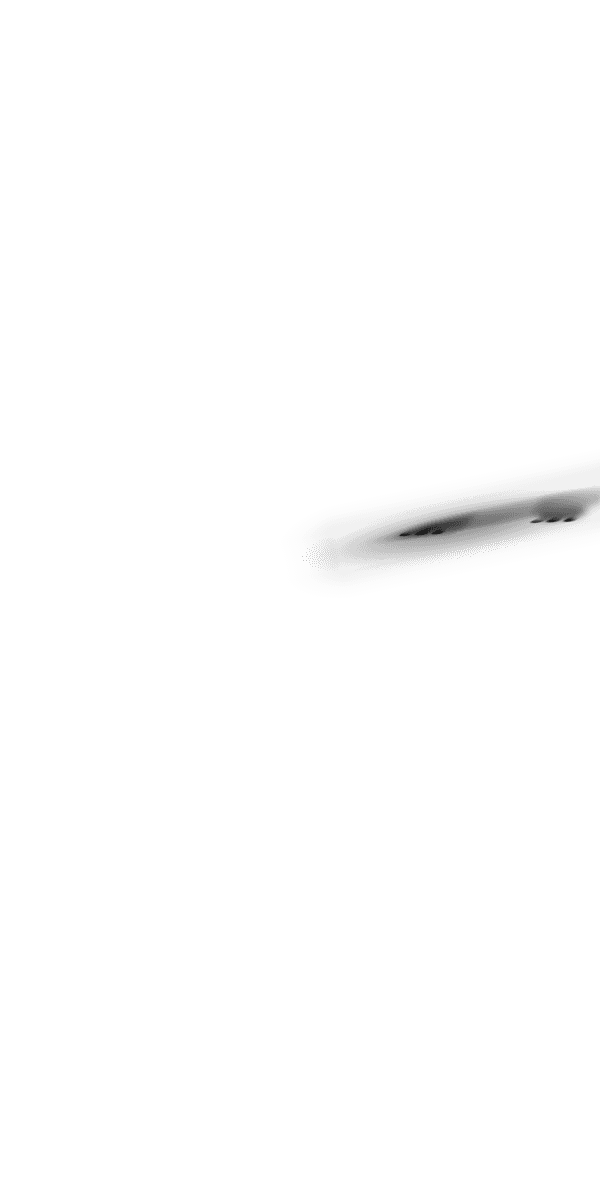
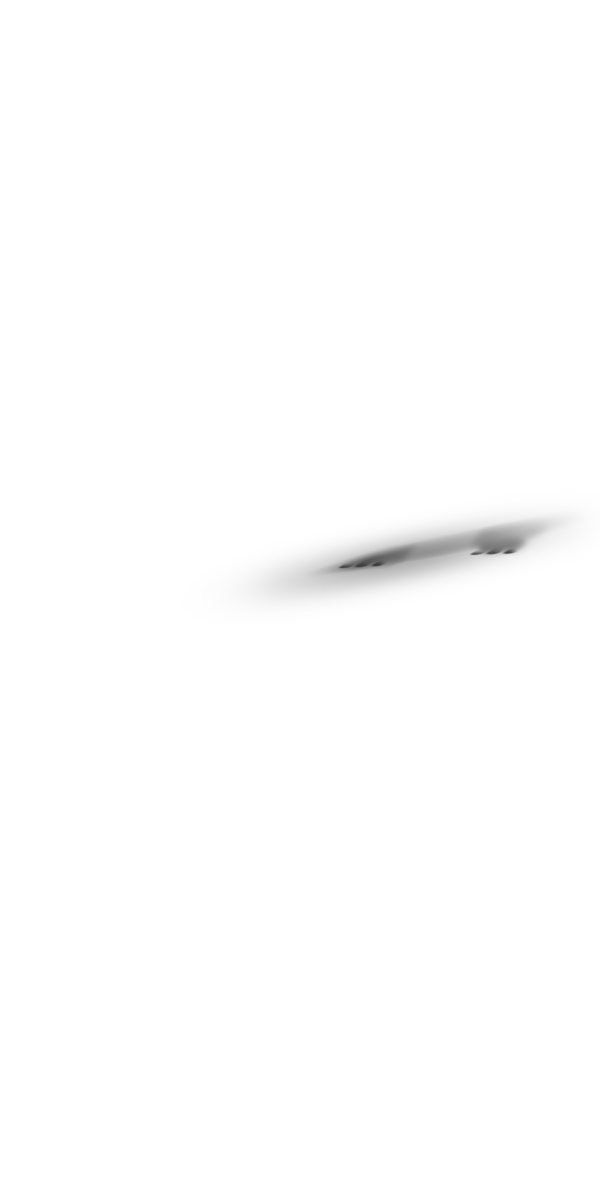
new update on 300x600

Changed region(s): [[0.45, 0.4008, 1.0, 0.4933]]

diff --git a/Speed/10608-01_300x600/index.html b/Speed/10608-01_300x600/index.html
@@ -23,7 +23,7 @@
     <div id="main">
         <div id="background"></div>
 
-        <!-- <img src="images/frame1@2x.jpg" id="ref" style="opacity: .5; z-index: 111;" class="absolute full-width"/> -->
+        <!-- <img src="images/frame1.png" id="ref" style="opacity: .5; z-index: 111;" class="absolute full-width"/> -->
 
         <div id="frame-left" class="absolute frame"></div>
         <div id="frame-right" class="absolute frame"></div>
@@ -38,8 +38,8 @@
           <img src="images/headline-6.png" id="headline-6" class="absolute full-width headline hidden" alt="" />
         </div>
 
-        <img src="images/turtle.png" id="turtle" class="absolute full-width"/>
         <img src="images/turtle-shadow.png" id="turtle-shadow" class="absolute full-width"/>
+        <img src="images/turtle.png" id="turtle" class="absolute full-width"/>
         
         <img src="images/text1.png" id="text1" class="absolute full-width" alt="" />
 

diff --git a/Speed/10608-01_300x600/main.js b/Speed/10608-01_300x600/main.js
@@ -24,6 +24,7 @@ function animate() {
 
   // tl1.set(["#main_content"], { autoAlpha: 1, force3D: true });
   tl1.set(["#cta"], { force3D: false, rotation: .001 });
+  tl1.set(["#turtle-shadow"], { x:"30px", y:"-18px" });
   
   tl1.to(['#turtle', '#turtle-shadow'], 1,{ x: '+=300', ease: "power1.out" }, 0);
   tl1.to(['#turtle', '#turtle-shadow'], 0.5,{ y: '-=75', ease: "power1.out" }, 0);
